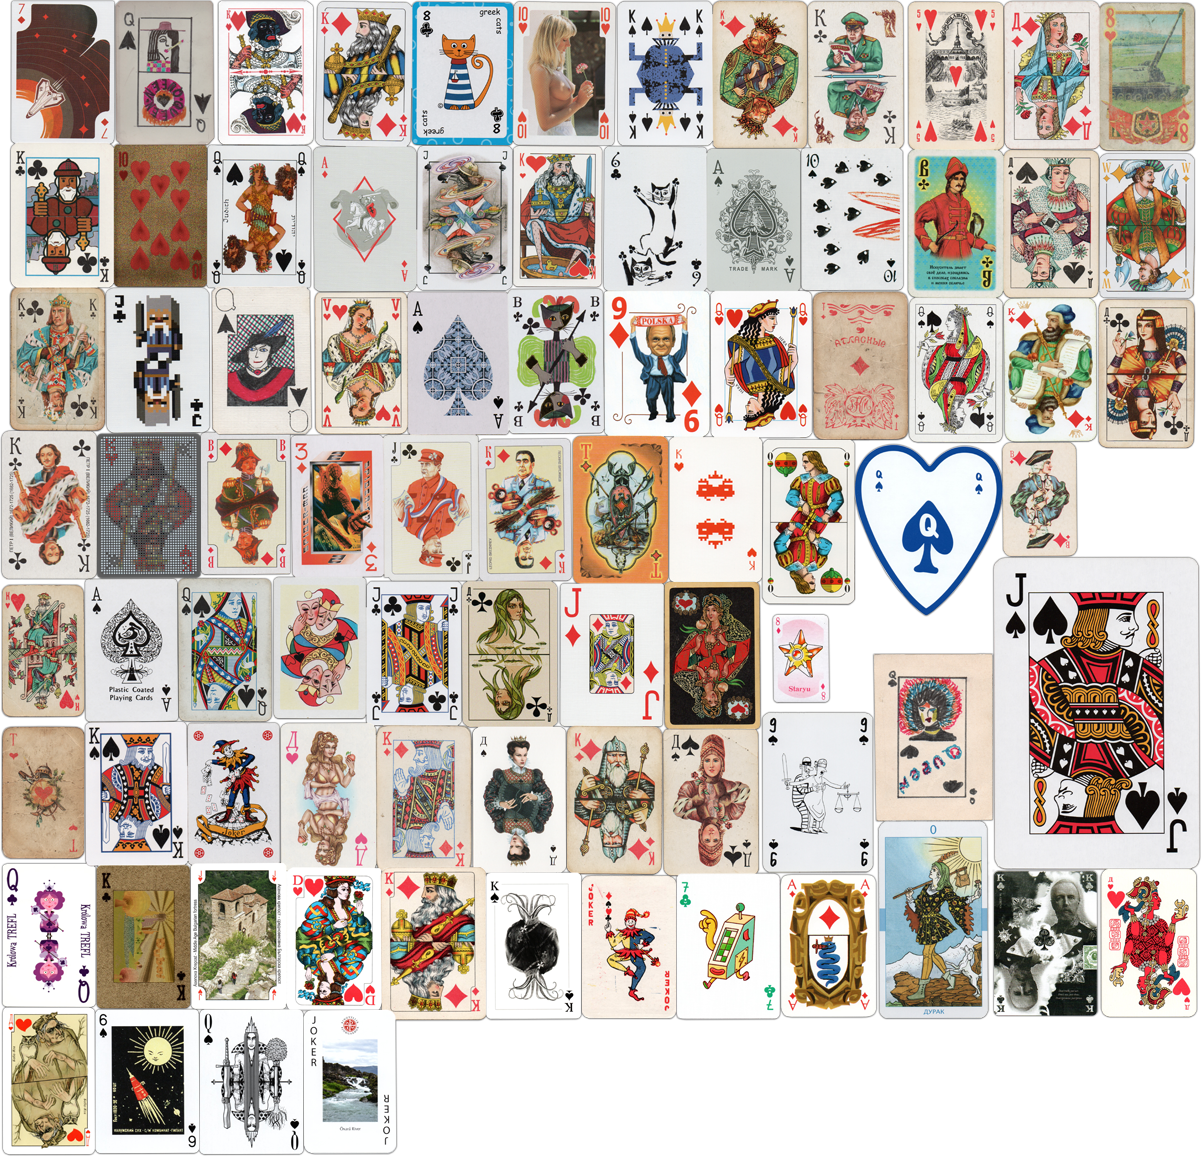
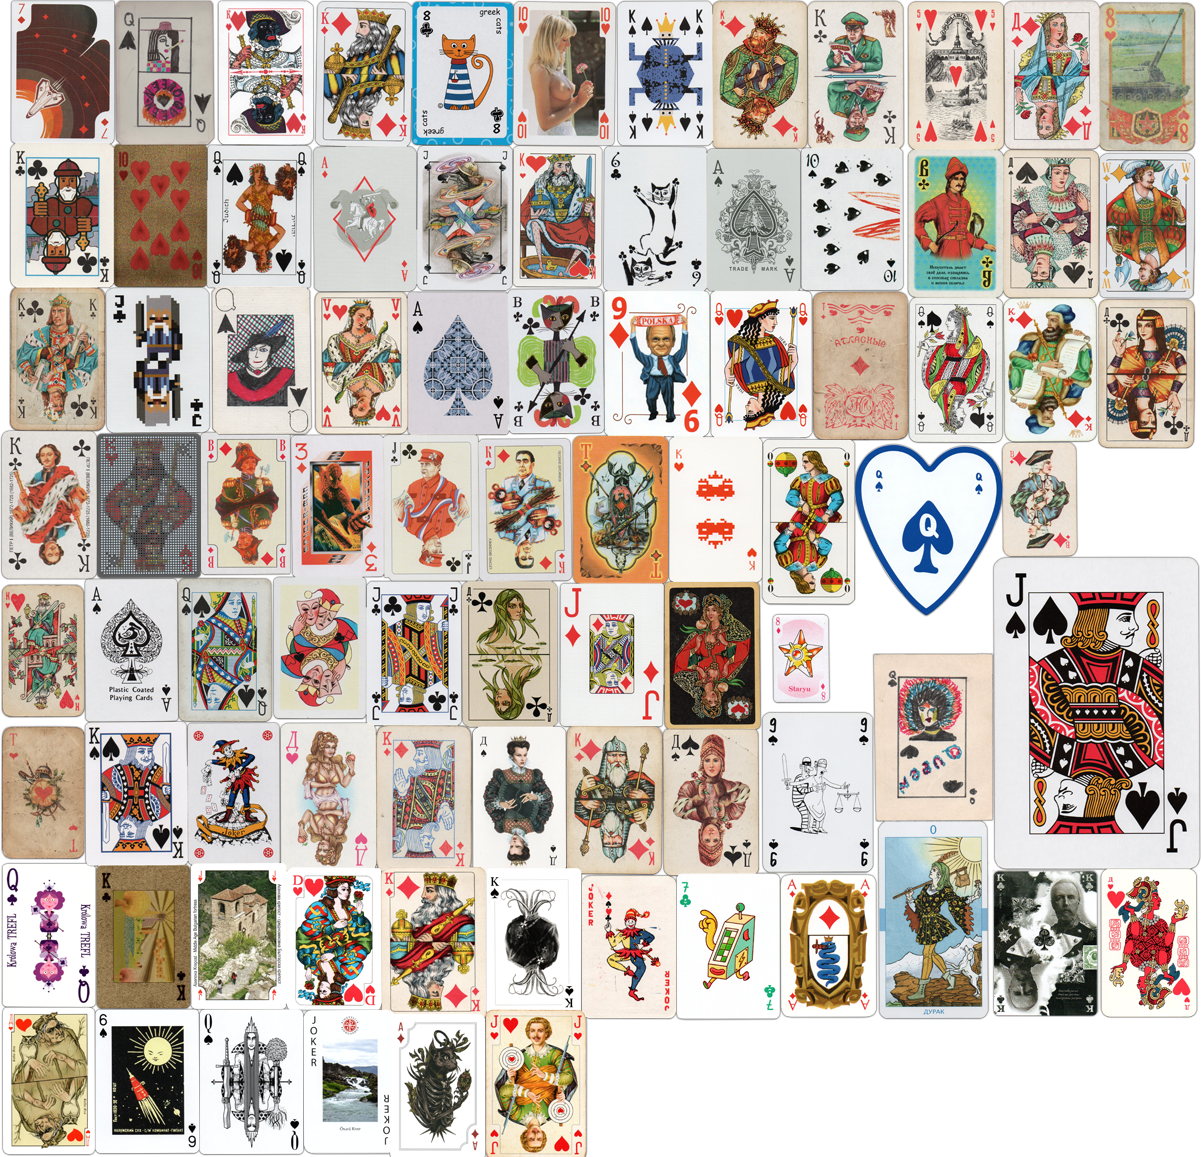
data: Update Playing cards image

Changed region(s): [[0.3081, 0.7468, 0.4929, 1.0]]

diff --git a/src/app/data/translations/ru.ts b/src/app/data/translations/ru.ts
@@ -430,9 +430,9 @@ export const ru: TranslatedStrings = {
       p1: 'Коллекционирую с детства.',
       p2:
         'Не ставлю себе задачу собрать очень много и всё подряд, поэтому коллекция не очень \
-большая и насчитывает на данный момент более 80 колод. Собираю именно те, \
+большая и насчитывает на данный момент более 90 колод. Собираю именно те, \
 которые понравились.',
-      imgTitle: 'По одной карте из каждой колоды (кликабельно). Сентябрь 2019',
+      imgTitle: 'По одной карте из каждой колоды (кликабельно). Декабрь 2019',
     },
   },
   Poland: {

diff --git a/src/app/data/translations/en.ts b/src/app/data/translations/en.ts
@@ -352,9 +352,9 @@ export const en: TranslatedStrings = {
       p1: 'Collecting since my childhood.',
       p2:
         'There is no purpose to gather everything from everywhere, \
-so the collection is no so big and contains today more than 80 decks. \
+so the collection is no so big and contains today more than 90 decks. \
 Collecting those which I really like.',
-      imgTitle: 'One card from each deck (clickable). September 2019',
+      imgTitle: 'One card from each deck (clickable). November 2019',
     },
   },
   Poland: {
